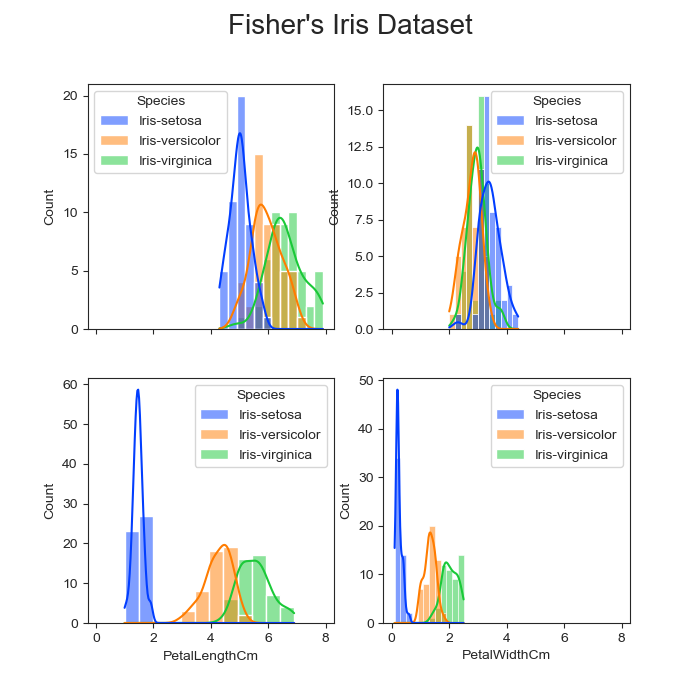
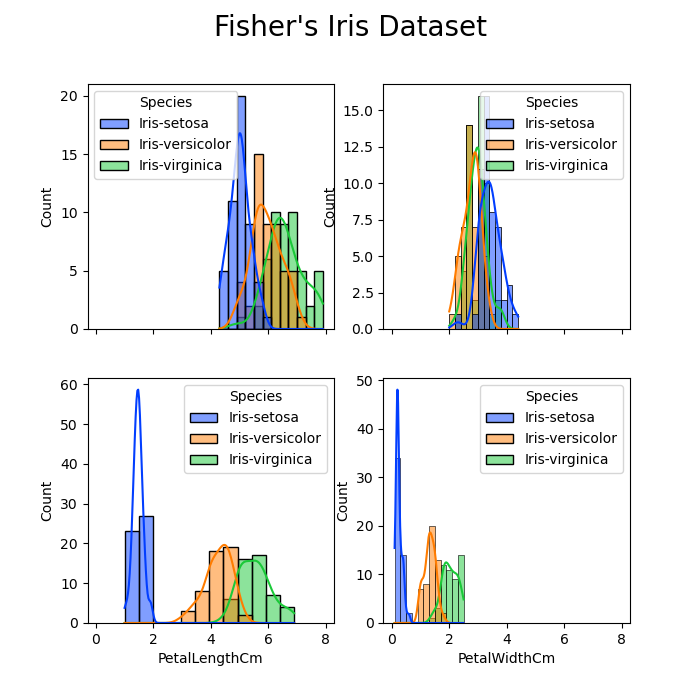
review

diff --git a/histogram.py b/histogram.py
@@ -14,10 +14,10 @@ filename = 'kaggleIrisSet.csv'                      # Import File
 df = pd.read_csv(filename)                          # Set variable for file - Pandas - read the CSV file
 
 
-sns.set_style('ticks')                                      # set seaborn background
-sns.set_palette("bright")                                   # set seaborn color palette
-sns.color_palette("husl", 9)
-
+#sns.set_style('ticks')                                          # set seaborn background
+sns.set_palette("bright")                                        # set seaborn color palette
+sns.color_palette("husl", 9)                                     # Set Color Chart
+sns.set_style({'axes.facecolor':'white', 'grid.color': '.8'})    # Set Style
 
 
 f, axes = plt.subplots(2, 2, figsize=(7, 7), sharex=True)
@@ -25,7 +25,6 @@ sns.histplot( df, x="SepalLengthCm",  ax=axes[0, 0],kde=True, hue="Species", bin
 sns.histplot( df, x="SepalWidthCm", ax=axes[0, 1], kde=True, hue="Species", bins=12)
 sns.histplot( df, x="PetalLengthCm", ax=axes[1, 0], kde=True,hue="Species",  bins=12)
 sns.histplot( df, x="PetalWidthCm", ax=axes[1, 1], kde=True, hue="Species", bins=12)
-#sns.despine(fig=None, ax=None, top=False, right=False, left=False, bottom=False, offset=None, trim=False)
 plt.suptitle("Fisher's Iris Dataset", size=20) 
 plt.savefig("Histplotextra.png")
-plt.show()
+#plt.show()
